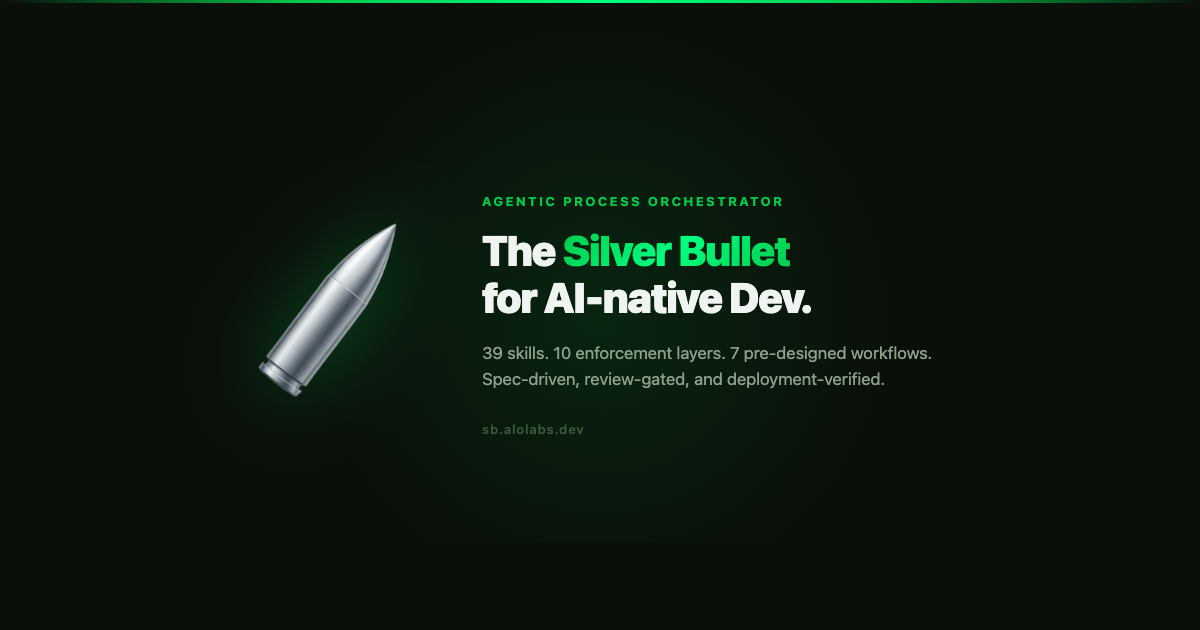
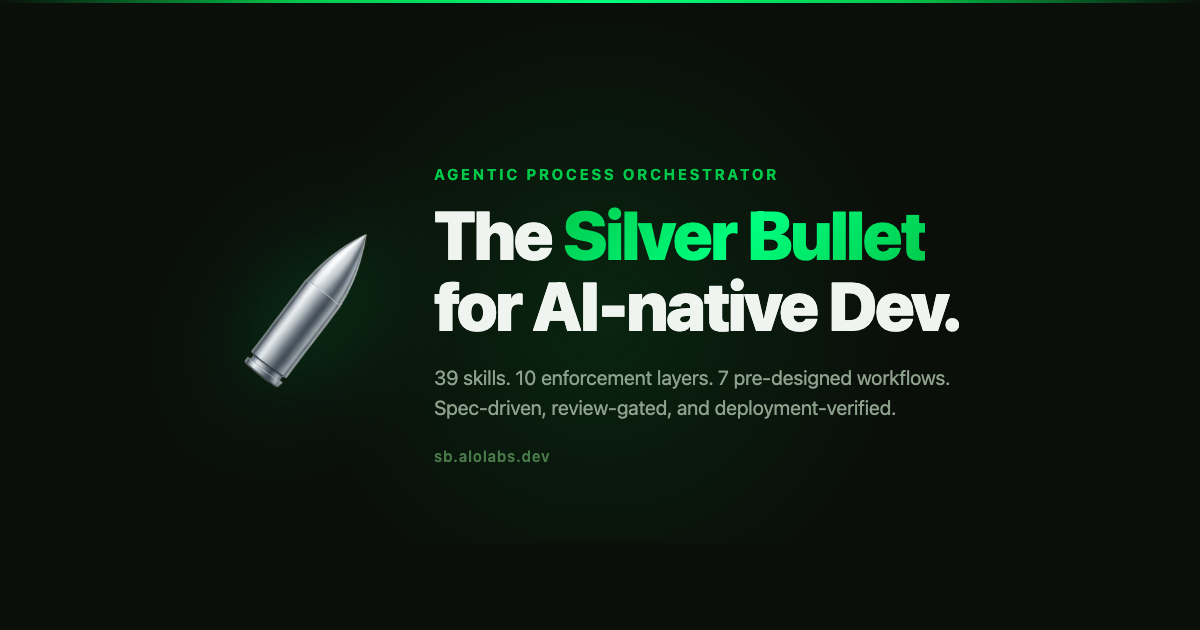
fix(site): center og-image content, smaller bullet, larger text

Changed region(s): [[0.3392, 0.2714, 0.8017, 0.6937], [0.185, 0.3619, 0.3392, 0.6333], [0.37, 0.7238, 0.4625, 0.754]]

diff --git a/site/og-card.html b/site/og-card.html
@@ -22,34 +22,34 @@
     pointer-events:none;
   }
   .card{
-    display:flex;
+    display:inline-flex;
     align-items:center;
-    gap:64px;
-    padding:0 80px;
+    justify-content:center;
+    gap:48px;
     position:relative;
     z-index:1;
   }
   .bullet{
-    width:180px;
+    width:160px;
     flex-shrink:0;
-    filter:drop-shadow(0 0 40px rgba(0,200,80,.35));
+    filter:drop-shadow(0 0 50px rgba(0,200,80,.4));
   }
   .text{flex:1}
   .label{
-    font-size:13px;
+    font-size:15px;
     font-weight:700;
     letter-spacing:.18em;
     color:#00c84a;
     text-transform:uppercase;
-    margin-bottom:18px;
+    margin-bottom:16px;
   }
   h1{
-    font-size:42px;
+    font-size:68px;
     font-weight:900;
-    line-height:1.1;
+    line-height:1.05;
     letter-spacing:-.03em;
     color:#f0f4f0;
-    margin-bottom:20px;
+    margin-bottom:22px;
   }
   h1 span{
     background:linear-gradient(135deg,#00c84a,#00ff7f,#00c84a);
@@ -57,17 +57,17 @@
     -webkit-text-fill-color:transparent;
   }
   .desc{
-    font-size:17px;
-    line-height:1.55;
+    font-size:20px;
+    line-height:1.5;
     color:#8ca08c;
-    max-width:480px;
+    max-width:540px;
   }
   .url{
-    margin-top:28px;
-    font-size:13px;
+    margin-top:24px;
+    font-size:15px;
     font-weight:600;
     letter-spacing:.06em;
-    color:#3a5c3a;
+    color:#4a7a4a;
   }
   .border-top{
     position:absolute;
